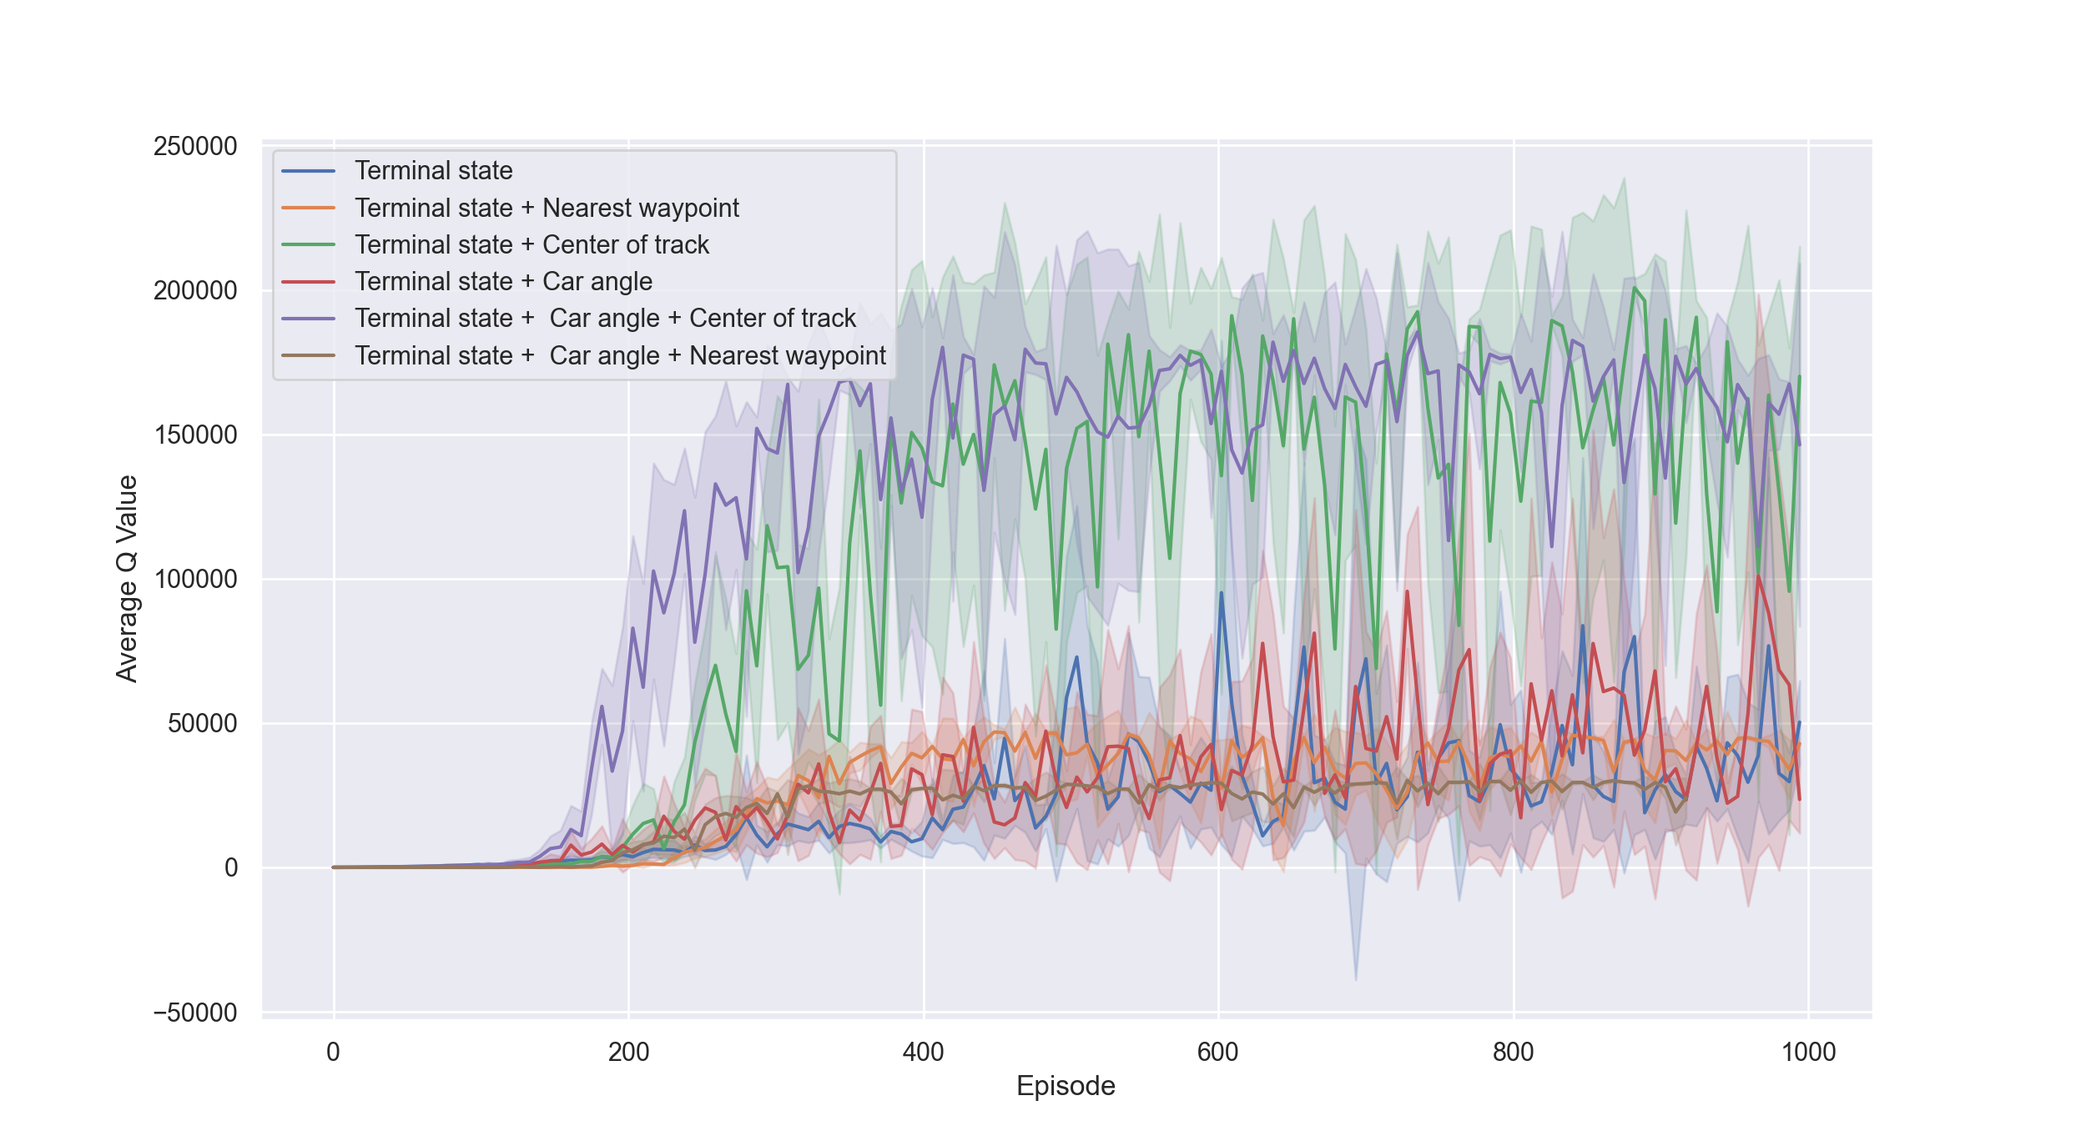
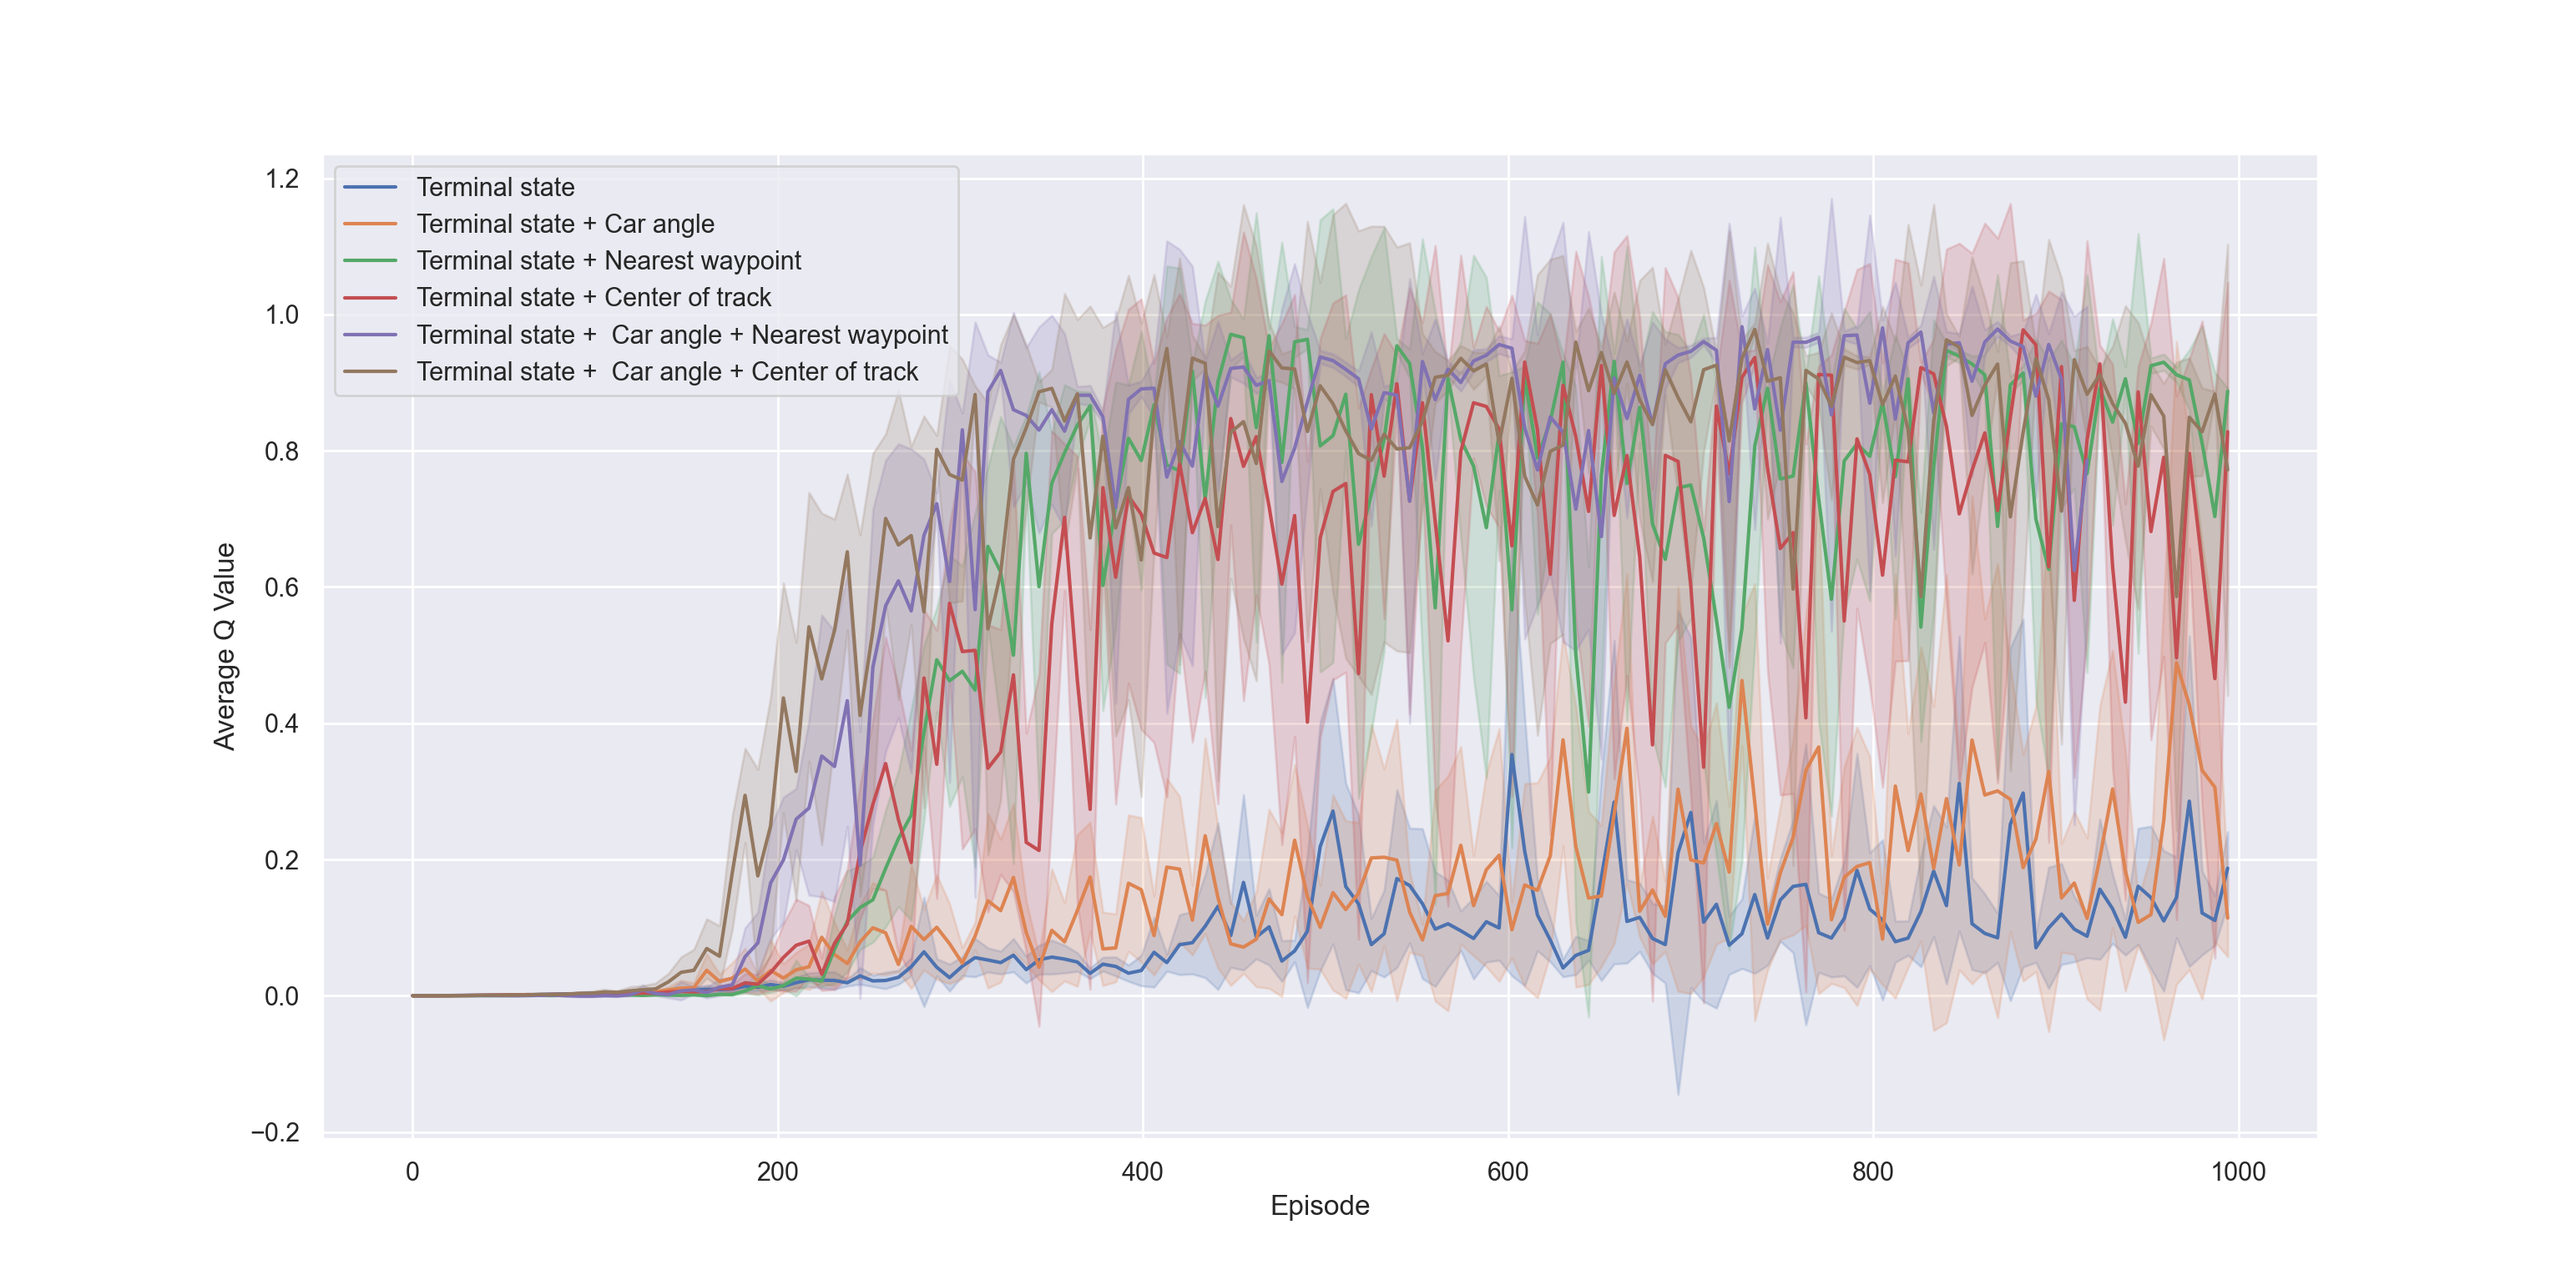
ablation study complete

diff --git a/deep-rl/utils/plot_results.py b/deep-rl/utils/plot_results.py
@@ -1,58 +1,108 @@
-import sys
+import json
+import pathlib
+import numpy as np
+import matplotlib.pyplot as plt
 import pandas as pd
+import seaborn as sns
 
-import plotly.plotly as py
-import plotly.graph_objs as go
+sns.set_theme(style="darkgrid")
 
-fill_c = 'rgba(68, 68, 68, 0.1)'
-line_c = ['rgb(31, 119, 180)', 'rgb(180, 80, 110)', 'rgb(180, 119, 31)']
 
-def main(args=None):
+def plot_logs_data(x, y, ax):
+    y = np.nan_to_num(y)
 
-    upper_bound, trace, lower_bound = [], [], []
+    max = y.max()
+    y = y / max
 
-    for i in range(len(sys.argv)-1):
+    modulo = 7
+    last = 0
+    for r in range(len(x)):
+        r = r + 1
+        if r % modulo == 0:
+            last = r
+        x[r - 1] = last
 
-        df = pd.read_csv(sys.argv[i+1])
+    df = pd.DataFrame(
+        dict(
+            episode=x,
+            value=y,
+        )
+    )
 
-        upper_bound.append(go.Scatter(
-            name='Upper Bound',
-            x=df['Episode'],
-            y=df['Mean']+df['Stddev'],
-            mode='lines',
-            marker=dict(color="444"),
-            line=dict(width=0),
-            fillcolor=fill_c,
-            fill='tonexty'))
+    # Plot the responses for different events and regions
+    sns.lineplot(
+        x="episode",
+        y="value",
+        ci="sd",
+        data=df,
+        ax=ax
+    )
 
-        trace.append(go.Scatter(
-            name='Measurement',
-            x=df['Episode'],
-            y=df['Mean'],
-            mode='lines',
-            fillcolor=fill_c,
-            fill='lines'))
 
-        lower_bound.append(go.Scatter(
-            name='Lower Bound',
-            x=df['Episode'],
-            y=df['Mean']-df['Stddev'],
-            marker=dict(color="444"),
-            line=dict(width=0),
-            mode='lines'))
+def build_logs_print_object(episodes, data):
+    # Comment out what you don't want ot print
+    return {
+        "Episode": episodes,
+        # "Average Q Value Per Step": data,
+        # "Average Reward Per Step": data,
+        "Average Q Value": data,
+        # "Average Reward": data
+    }
 
-    # Trace order can be important
-    # with continuous error bars
-    # data = [*lower_bound, *trace, *upper_bound]
-    data = trace
 
-    layout = go.Layout(
-        yaxis=dict(title='Score'),
-        title='Average Reward',
-        showlegend = True)
+def get_logs_data(path):
+    with open(
+            path,
+            encoding="utf8"
+    ) as json_file:
+        raw = json.load(json_file)
+        data = []
+        episodes = []
+        for data_point in raw:
+            episodes.append(data_point[1])
+            data.append(data_point[2])
 
-    fig = go.Figure(data=data, layout=layout)
-    py.iplot(fig, filename='average-reward')
+    return build_logs_print_object(episodes, data)
+
+
+def get_logs_data_path(dir):
+    root = str(pathlib.Path().resolve())
+    path = root + '/results/reward-function-ablation-study/' + dir + '/average-q-per-episode.json'
+    return path
+
+
+def main():
+    fig, ax = plt.subplots()
+
+    for el in [
+        'ddqn',
+        'ddqn4',
+        'ddqn2',
+        'ddqn3',
+        'ddqn6',
+        'ddqn5',
+    ]:
+        path = get_logs_data_path(el)
+        logs_object = get_logs_data(path)
+
+        for key in logs_object:
+            x_name = "Episode"
+            y_name = key
+            if key != "Episode":
+                plot_logs_data(logs_object["Episode"], logs_object[key], ax)
+
+    plt.legend(labels=[
+        "Terminal state",
+        "Terminal state + Car angle",
+        "Terminal state + Nearest waypoint",
+        "Terminal state + Center of track",
+        "Terminal state +  Car angle + Nearest waypoint",
+        "Terminal state +  Car angle + Center of track",
+    ])
+    plt.xlabel(x_name)
+    plt.ylabel(y_name)
+    plt.show()
+
 
 if __name__ == "__main__":
     main()
